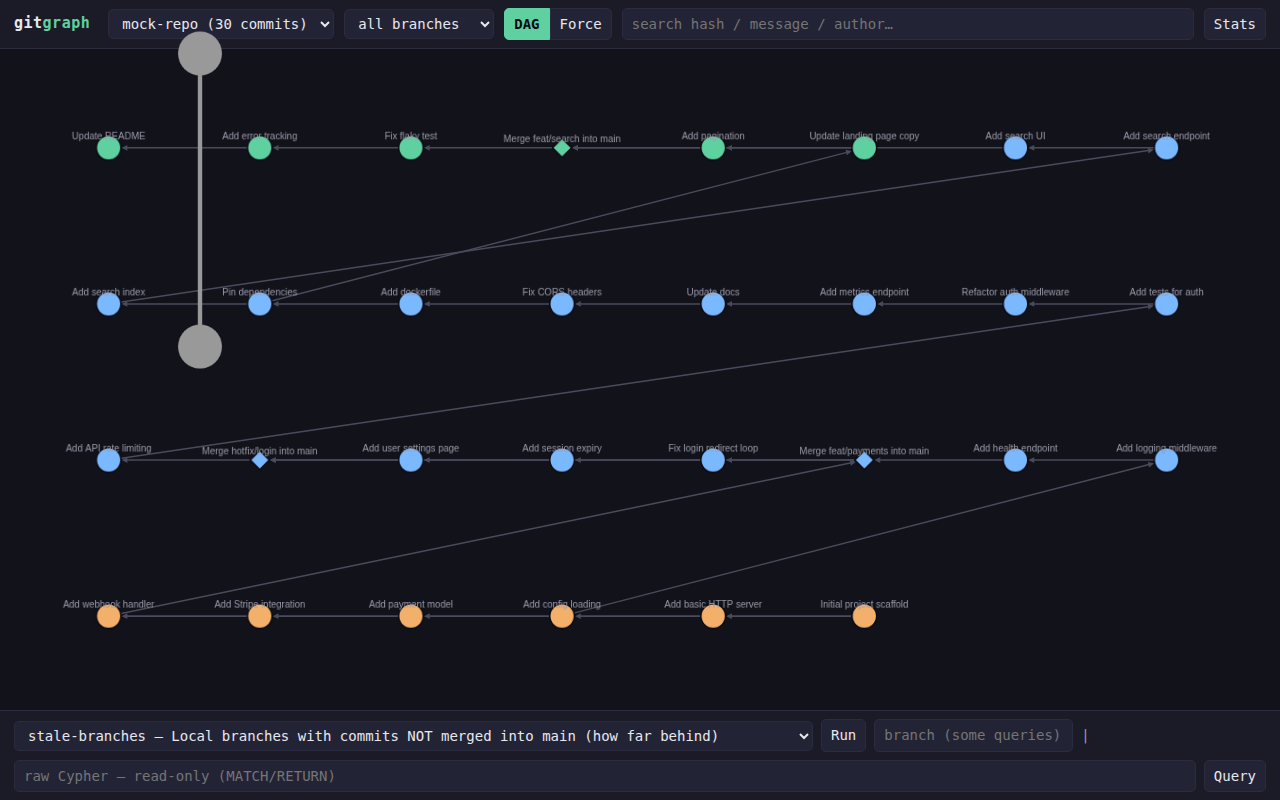
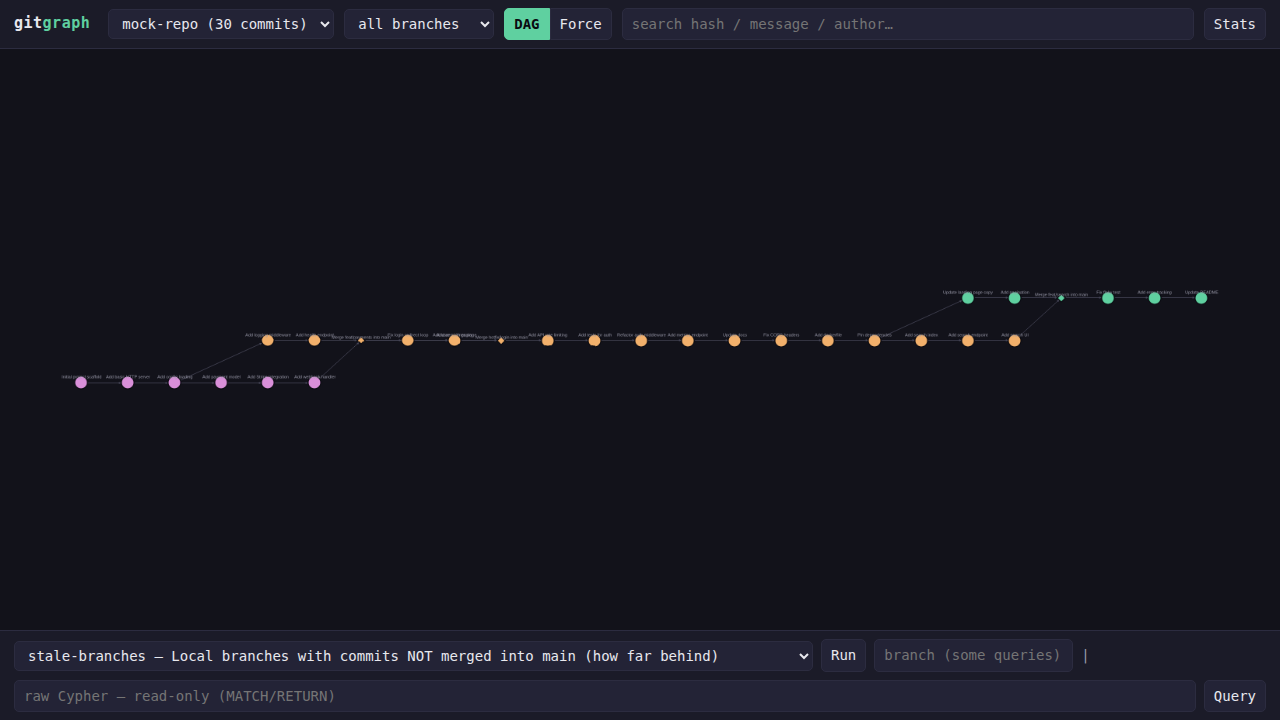
DAG: horizontal timeline layout with branch lanes + readable initial zoom
The vertical level layout collapsed mostly-linear repos into a column
of dots, and auto-fit zoomed it into specks. Now:
- time flows left->right: newest commit at the far right
- main is a single horizontal line; each branch is a parallel lane;
  merges are the diagonal joins (GitKraken-style)
- initial fit has a zoom floor (0.55) so the graph is readable on load;
  bigger nodes and labels
- demo GIF re-captured against the mock repo

diff --git a/static/app.js b/static/app.js
@@ -61,7 +61,7 @@ async function loadBranches() {
 /* ---------------- layout helpers ---------------- */
 
 function dagLayout(nodes, edges) {
-  // y: level = distance from the tip set (parents are deeper)
+  // level = distance from the tip set (newest = level 0)
   const child = new Map();
   for (const e of edges) (child.get(e.target) ?? child.set(e.target, []).get(e.target)).push(e.source);
   const level = new Map();
@@ -82,21 +82,23 @@ function dagLayout(nodes, edges) {
     }
   }
   const maxLevel = Math.max(0, ...level.values());
-  const byLevel = new Map();
-  for (const n of nodes) {
-    const l = level.get(n.id) ?? 0;
-    (byLevel.get(l) ?? byLevel.set(l, []).get(l)).push(n);
-  }
-  const xs = {};
-  for (const [l, group] of byLevel) {
-    group.sort((a, b) => (a.branch === b.branch ? (a.date < b.date ? 1 : -1) : (a.branch < b.branch ? -1 : 1)));
-    group.forEach((n, i) => { xs[n.id] = (i - (group.length - 1) / 2) * 110 - l * 36; });
-  }
-  // newest (tips, level 0) at the BOTTOM, flowing left-to-right / top-to-bottom
+
+  // lanes: one per branch — main/master/develop first, then others alphabetically
+  const order = ["main", "master", "develop"];
+  const names = [...new Set(nodes.map((n) => n.branch).filter(Boolean))];
+  names.sort((a, b) => {
+    const ai = order.indexOf(a), bi = order.indexOf(b);
+    return (ai === -1 ? 99 : ai) - (bi === -1 ? 99 : bi);
+  });
+  const lane = new Map(names.map((nm, i) => [nm, i]));
+
+  // horizontal timeline: newest at the far right, older to the left;
+  // each branch is a parallel horizontal lane; merges are the diagonal joins
+  const nLanes = Math.max(1, names.length);
   return nodes.map((n) => ({
     id: n.id,
-    x: xs[n.id],
-    y: (maxLevel - (level.get(n.id) ?? 0)) * 66,
+    x: (maxLevel - (level.get(n.id) ?? 0)) * 120,
+    y: ((lane.get(n.branch) ?? 0) - (nLanes - 1) / 2) * 110,
   }));
 }
 
@@ -126,11 +128,11 @@ async function loadGraph() {
     {
       selector: "node",
       style: {
-        width: 26, height: 26, "background-color": "data(color)",
-        "border-width": 1.5, "border-color": "#0a0a10",
-        label: "data(msg)", "font-size": 10, "text-valign": "top",
-        "text-margin-y": 6, color: "#9a9aaa", "text-wrap": "ellipsis",
-        "text-max-width": 150,
+        width: 32, height: 32, "background-color": "data(color)",
+        "border-width": 2, "border-color": "#0a0a10",
+        label: "data(msg)", "font-size": 11, "text-valign": "top",
+        "text-margin-y": 7, color: "#9a9aaa", "text-wrap": "ellipsis",
+        "text-max-width": 170,
       },
     },
     { selector: "node.merged", style: { shape: "diamond", width: 20, height: 20 } },
@@ -142,11 +144,18 @@ async function loadGraph() {
   cy = cytoscape({
     container: $("cy"), elements: { nodes, edges }, style: styles,
     layout: { name: "preset" },   // honor the computed DAG positions
-    minZoom: 0.04, maxZoom: 4,
+    minZoom: 0.08, maxZoom: 4,
     wheelSensitivity: 0.2,
   });
   wireEvents();
+  // fit, but never land zoomed out to specks: floor the initial zoom
   cy.fit(undefined, 60);
+  if (cy.zoom() < 0.55) {
+    cy.zoom({
+      level: 0.55,
+      renderedPosition: { x: cy.width() * 0.6, y: cy.height() / 2 },
+    });
+  }
 }
 
 function wireEvents() {
